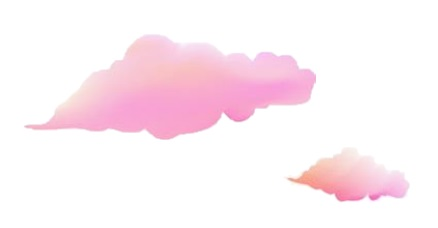
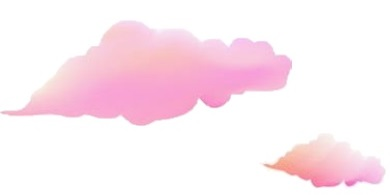
styling with css

Changed region(s): [[0.0, 0.0923, 0.7692, 0.6462], [0.6462, 0.6462, 1.0, 0.9846]]

diff --git a/css/style.css b/css/style.css
@@ -1,17 +1,25 @@
 body {
+  color: #521262;
+
   margin: 0;
   text-align: center;
   font-family: 'PT Sans', sans-serif;
 }
 h1 {
+  color: #88304e;
+  font-size: 5.625rem;
   margin-top: 0;
+  margin-bottom: 0;
   font-family: 'Sacramento', cursive;
 }
 h2 {
+  color: #88304e;
   font-family: 'Montserrat', sans-serif;
+  font-size: 2.5rem;
 }
 h3 {
   font-family: 'Montserrat', sans-serif;
+  color: #ff8364;
 }
 .top-container {
   background-color: white;
@@ -19,34 +27,44 @@ h3 {
   padding-top: 10%;
 }
 .middle-container {
-  background-color: #ffd3b6;
+  background-color: #ffe2e2;
 }
 .bottom-container {
   background-color: #a4e5d9;
 }
 .t-cloud {
   position: absolute;
-  top: 5%;
-  right: 5%;
+  top: 0;
+  right: 1%;
 }
 .b-cloud {
   position: absolute;
-  left: 5%;
+  left: 0%;
+  top: 30%;
 }
 .ds {
-  width: 10%;
-  height: 10%;
+  width: 25%;
   border-radius: 100%;
+  float: left;
+  margin-right: 30px;
 }
 .ml {
-  width: 10%;
-  height: 10%;
+  width: 25%;
   border-radius: 100%;
+  float: right;
+  margin-left: 30px;
 }
 .gr {
-  width: 10%;
-  height: 10%;
+  width: 25%;
   border-radius: 100%;
+  float: left;
+  margin-right: 30px;
+}
+.skill-row {
+  width: 50%;
+  margin: 150px auto 150px auto;
+  line-height: 2;
+  text-align: left;
 }
 /*body {
   background-color: #eaf6f6;

diff --git a/index.html b/index.html
@@ -14,11 +14,14 @@
     <div class="top-container">
       <img class="t-cloud" src="images/cloud6.jpg" alt="cloud picture" />
       <h1>I'm Anushka Jadhav.</h1>
-      <p>a programmer.</p>
+      <h2>a programmer.</h2>
+      <br />
+      <br />
+      <br />
       <img class="b-cloud" src="images/cloud7.jpg" alt="cloud picture" />
-      <img src="images/city.png" alt="city picture" />
+      <img class="city" src="images/city.png" alt="city picture" />
     </div>
-    <div class="middle-section">
+    <div class="middle-container">
       <div class="profile">
         <img src="" alt="" />
         <h2>Hello.</h2>
